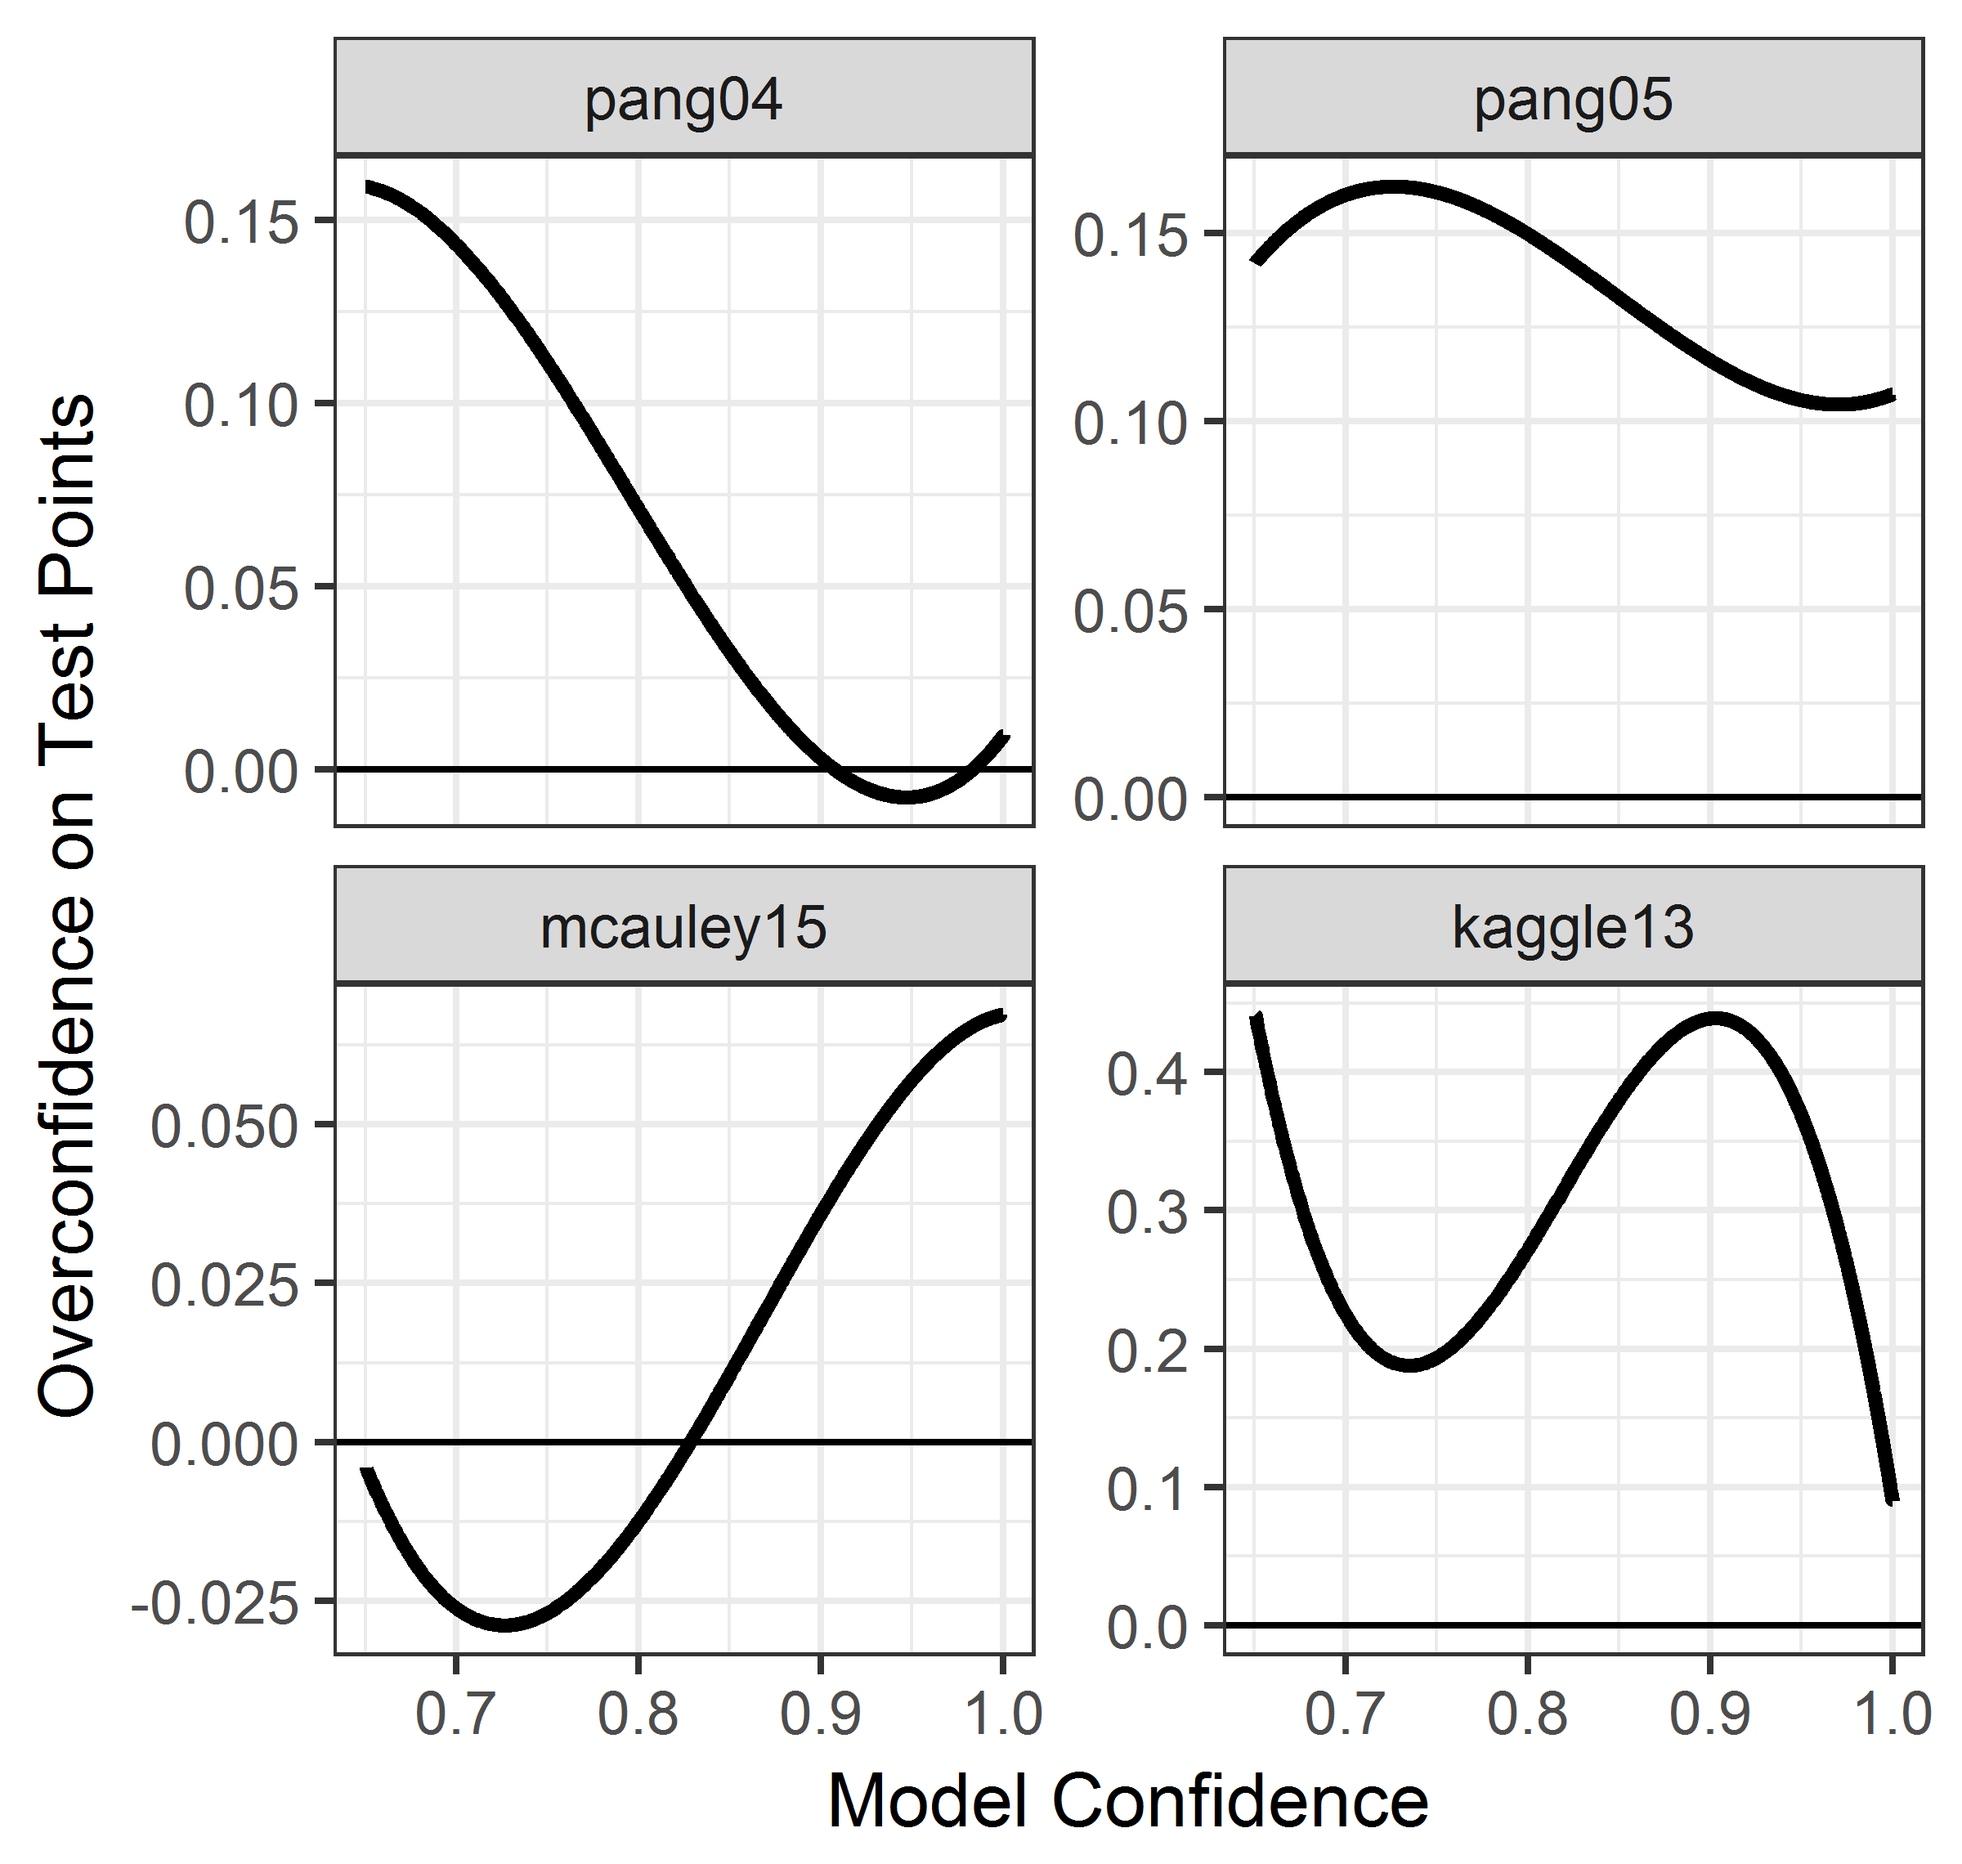
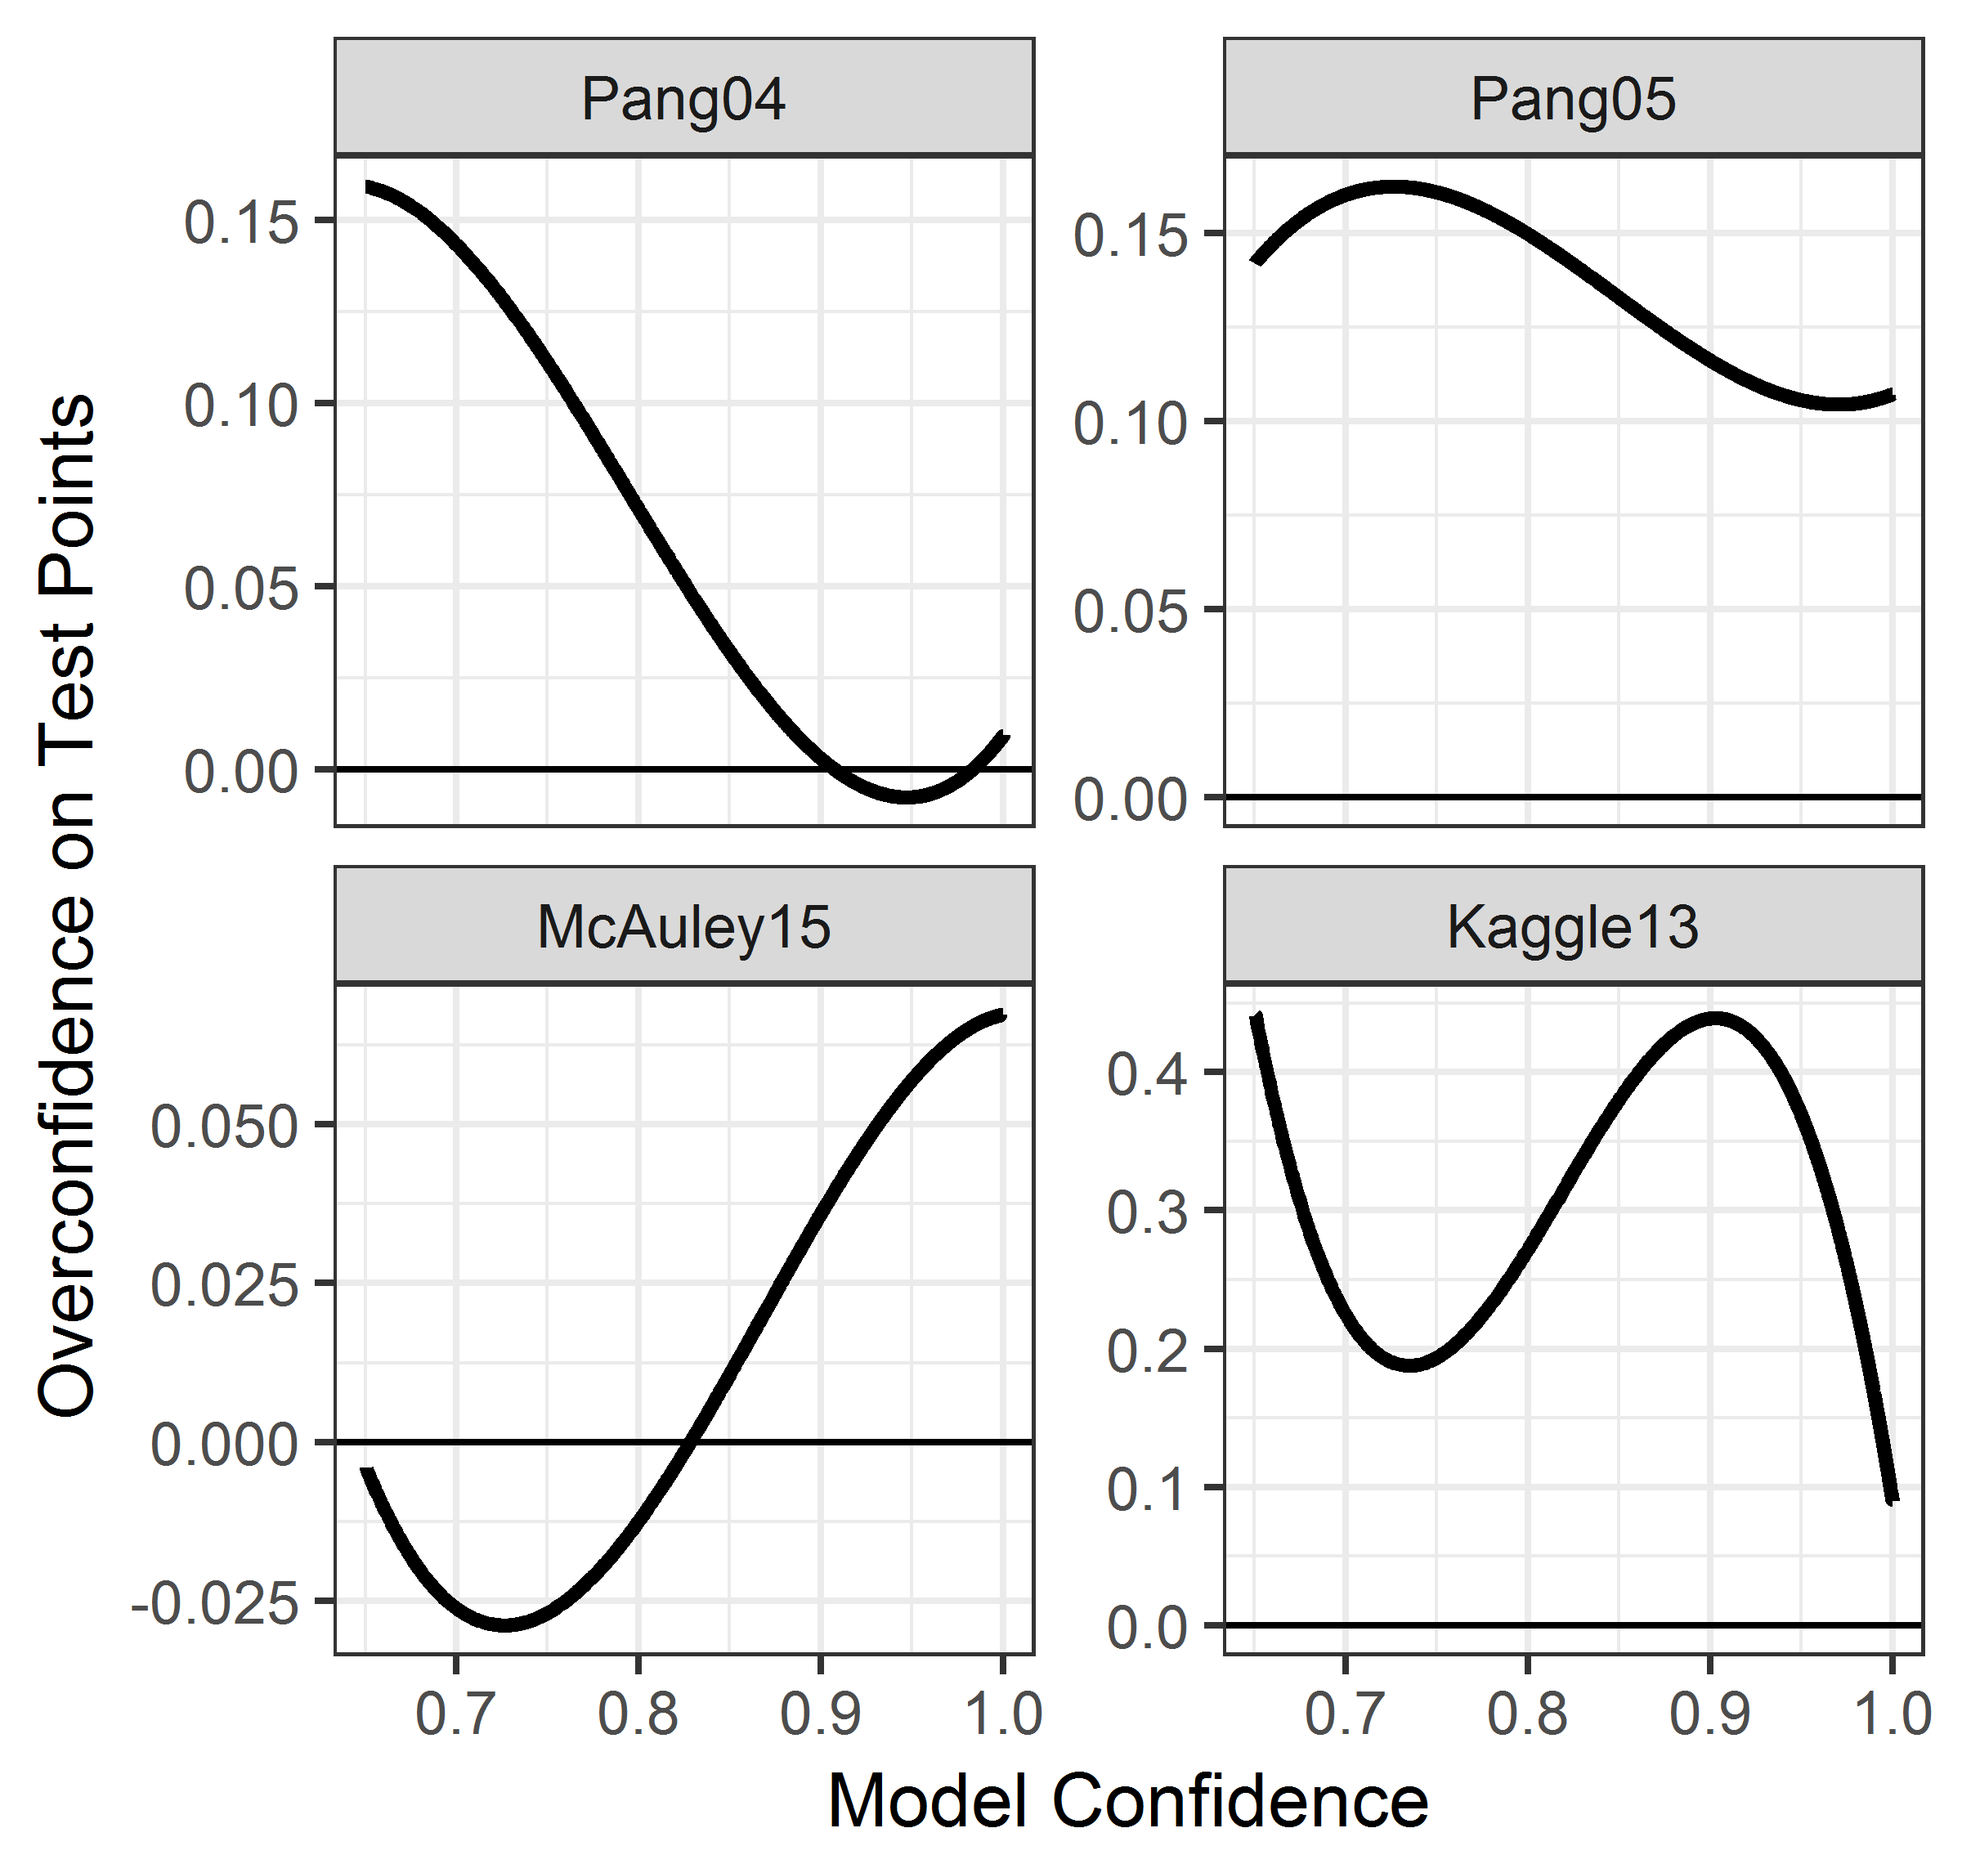
capitalize dataset names

diff --git a/writeups/AAAI/build/MaurerBennetteAAAI.tex b/writeups/AAAI/build/MaurerBennetteAAAI.tex
@@ -158,7 +158,7 @@ The reward function is designed to impact the utility in a way that is consisten
 
 \section{Results}
 
-We empirically evaluate our facility location utility model by applying Algorithm 1 to the four datasets used in \cite{Lakkaraju2016} and \cite{Bansal2018}: Pang04, Pang05, Mcauley15 and Kaggle13.  For each dataset we fit a classifier, $M(x)$, to a biased training set, then generate predicted classes and confidence values for all observations in the test set.  We search for UUs in the test set belonging to a critical class using a feature space derived through singular value decomposition.  The datasets and classifiers were chosen to maintain consistency with the data used to evaluate methods in \citep{Bansal2018}, unless otherwise noted. Each dataset was obtained from the shared repository accompanying the work of \cite{Bansal2018}.  A summary is given below.    
+We empirically evaluate our facility location utility model by applying Algorithm 1 to the four datasets used in \cite{Lakkaraju2016} and \cite{Bansal2018}: Pang04, Pang05, McAuley15 and Kaggle13.  For each dataset we fit a classifier, $M(x)$, to a biased training set, then generate predicted classes and confidence values for all observations in the test set.  We search for UUs in the test set belonging to a critical class using a feature space derived through singular value decomposition.  The datasets and classifiers were chosen to maintain consistency with the data used to evaluate methods in \citep{Bansal2018}, unless otherwise noted. Each dataset was obtained from the shared repository accompanying the work of \cite{Bansal2018}.  A summary is given below.    
 
 \begin{itemize}
 \item Pang04 \citep{pang2004}: The classification task is to label sentences from IMDb summaries and Rotten Tomatoes reviews as objective or subjective.  The dataset contains 10k sentences and the original 5k sentence training dataset was biased against objective sentences (the critical class). Bias was introduced by removing data associated with a randomly chosen leaf of a decision tree that was majority critical.  
@@ -176,7 +176,7 @@ The classifiers for Pang04, Pang05, and McAuley15 use logistic regression with u
   \label{fig:overconf}
 \end{figure}
 
-Figure~\ref{fig:overconf} displays the overconfidence of the models using a cubic-splines fitted between the indicator of correct classification and the confidence value in each test dataset to obtain an empirical estimates of the true rates of correct classification. We see that the models from the Pang04 and Pang05 datasets are most overconfident for points with relatively low confidence values, thus we would expect the a simple sequential search of the most-uncertain points to provide high facility locations utility in these cases. Whereas the predictions for McCauley15 and Kaggle14 are most overconfident in the higher confidence range, thus most-uncertain search should provide low facility locations utility in these cases. We see that these four data sets represent fairly different profiles of overconfidence, thus present good variety for evaluating characteristics of the facility locations utility model. 
+Figure~\ref{fig:overconf} displays the overconfidence of the models using a cubic-splines fitted between the indicator of correct classification and the confidence value in each test dataset to obtain an empirical estimates of the true rates of correct classification. We see that the models from the Pang04 and Pang05 datasets are most overconfident for points with relatively low confidence values, thus we would expect the a simple sequential search of the most-uncertain points to provide high facility locations utility in these cases. Whereas the predictions for McCauley15 and Kaggle13 are most overconfident in the higher confidence range, thus most-uncertain search should provide low facility locations utility in these cases. We see that these four data sets represent fairly different profiles of overconfidence, thus present good variety for evaluating characteristics of the facility locations utility model. 
 
 As with the evaluation of the coverage-based utility, we run the facility locations queries on 1000 random samples of size n=1000 from each of the datasets, using a budget B=100. In the following subsections we evaluate the utility outcomes of the facility locations queries in comparison to the most-uncertain search method, and compare the efficiency of queries to discover overconfident points.
 
@@ -192,7 +192,7 @@ To evaluate the queries generated by the facility locations utility model we col
   \label{fig:flutil}
 \end{figure*}
 
-Figure~\ref{fig:flutil} displays the Monte Carlo medians and 90\% predictions bands for the utility gains, paired with a visualization of confidence ranges where the model most overestimates its accuracy. We see that the most-uncertain selection method – that begins its search with points with confidence values just above $\tau$=.65 – provides the strongest utility for the pang04 case, as is desired, because these points are also shown to be most overconfident. The facility locations utility outcomes from using the logistic-based optimization were typically slightly lower. For the pang05 case where the overconfidence is skewed right but relatively ubiquitous, we again find very comparable utility between the logistic-based and the most-uncertain queries. For the mcauley15 where overconfidence is heavily skewed left, we now see inconsistent but strong facility location utility outcomes from the facility locations search, and consistently low utility outcomes from the most-uncertain queries. In the last case of kaggle14 where the overconfidence is skewed left but relatively ubiquitous, the facility locations search provided less consistent, but typically stronger utility than most-uncertain searches. \km{Thus in all scenarios, the facility locations utility model is properly rewarding the pursuit of the most overconfident points, as per its design.}
+Figure~\ref{fig:flutil} displays the Monte Carlo medians and 90\% predictions bands for the utility gains, paired with a visualization of confidence ranges where the model most overestimates its accuracy. We see that the most-uncertain selection method – that begins its search with points with confidence values just above $\tau$=.65 – provides the strongest utility for the Pang04 case, as is desired, because these points are also shown to be most overconfident. The facility locations utility outcomes from using the logistic-based optimization were typically slightly lower. For the Pang05 case where the overconfidence is skewed right but relatively ubiquitous, we again find very comparable utility between the logistic-based and the most-uncertain queries. For the McAuley15 where overconfidence is heavily skewed left, we now see inconsistent but strong facility location utility outcomes from the facility locations search, and consistently low utility outcomes from the most-uncertain queries. In the last case of Kaggle13 where the overconfidence is skewed left but relatively ubiquitous, the facility locations search provided less consistent, but typically stronger utility than most-uncertain searches. \km{Thus in all scenarios, the facility locations utility model is properly rewarding the pursuit of the most overconfident points, as per its design.}
 
 \subsection{Efficient Discovery of Overconfidence}
 
@@ -200,7 +200,7 @@ Secondly, we compare the queries gathered by the coverage-based utility algorith
 $$ ||S|| / \sum_{x=1}^B(1- c_x) $$
 thus counting the number of discovered misclassifications, divided by the number of misclassifications expected given the confidence values of the points queried. The SDR can be interpreted as the number of time more misclassifications that were found than were expected based on model confidence. 
 
-Figure~\ref{fig:sdr} compares the Monte Carlo medians and 90\%  central prediction intervals for the SDR values associated with 1000 random samples of size n=1000 from each of the datasets, using each of the three query algorithms: facility locations, coverage-based, and most uncertain. The SDR intervals for pang04 and pang 05 reveal that all three algorithms are similarly efficient at discovering overconfident UUs in situations where the overconfident points fall just beyond the defined threshold, $\tau = .65$. The SDR intervals for mcauley15 and kaggle13, where overconfidence was most prevalent for points far beyond the threshold, the facility locations utility algorithm typically provides the most efficient discovery of overconfident points. For kaggle13, the median SDR for the facility locations algorithm is 1.2 times larger than the coverage-based utility algorithm and 1.6 times larger than the most uncertain algorithm.
+Figure~\ref{fig:sdr} compares the Monte Carlo medians and 90\%  central prediction intervals for the SDR values associated with 1000 random samples of size n=1000 from each of the datasets, using each of the three query algorithms: facility locations, coverage-based, and most uncertain. The SDR intervals for Pang04 and pang 05 reveal that all three algorithms are similarly efficient at discovering overconfident UUs in situations where the overconfident points fall just beyond the defined threshold, $\tau = .65$. The SDR intervals for McAuley15 and Kaggle13, where overconfidence was most prevalent for points far beyond the threshold, the facility locations utility algorithm typically provides the most efficient discovery of overconfident points. For Kaggle13, the median SDR for the facility locations algorithm is 1.2 times larger than the coverage-based utility algorithm and 1.6 times larger than the most uncertain algorithm.
 
 \begin{figure}[hbtp]
   \includegraphics[width=.49\textwidth]{../experimentsAndPlots/discoveryRatioPlaceholder.png}
